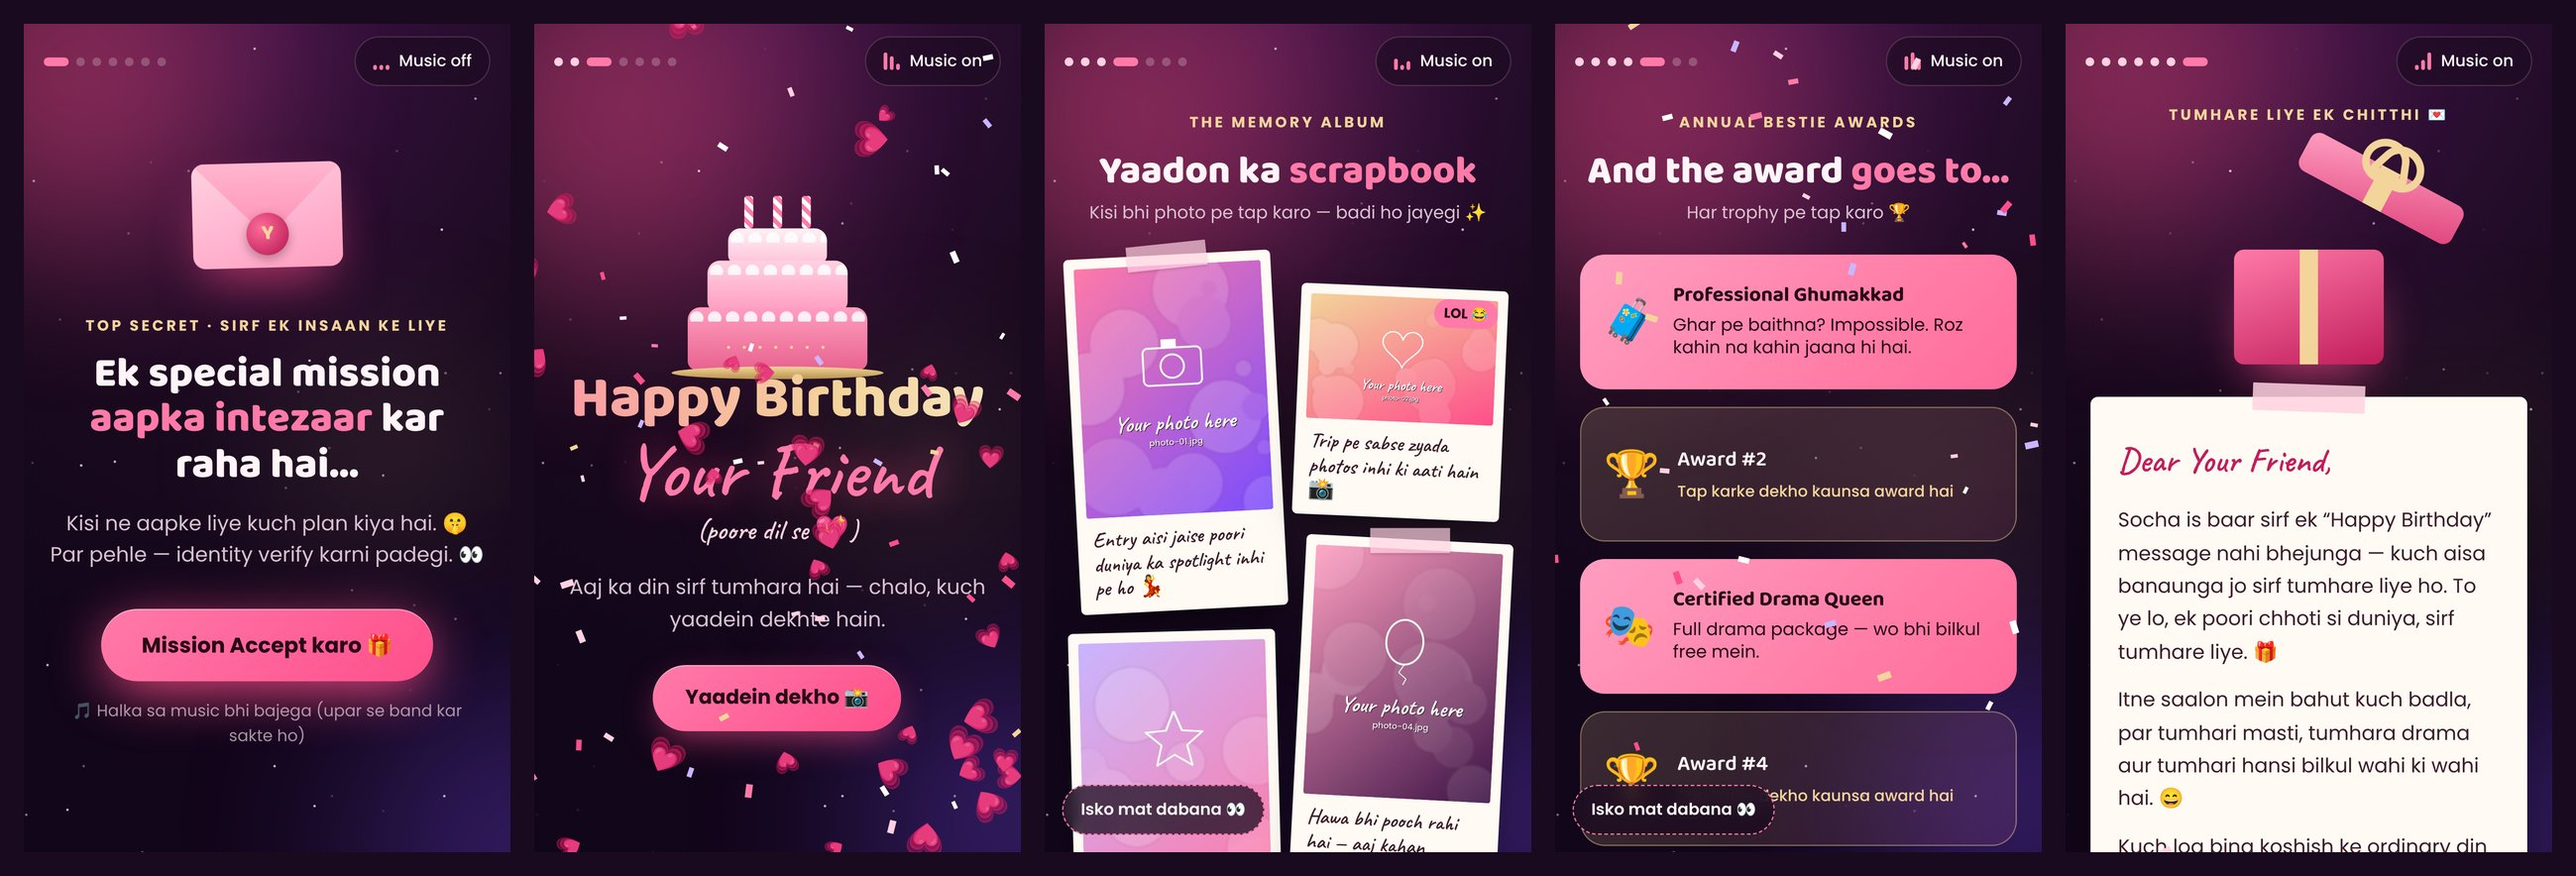
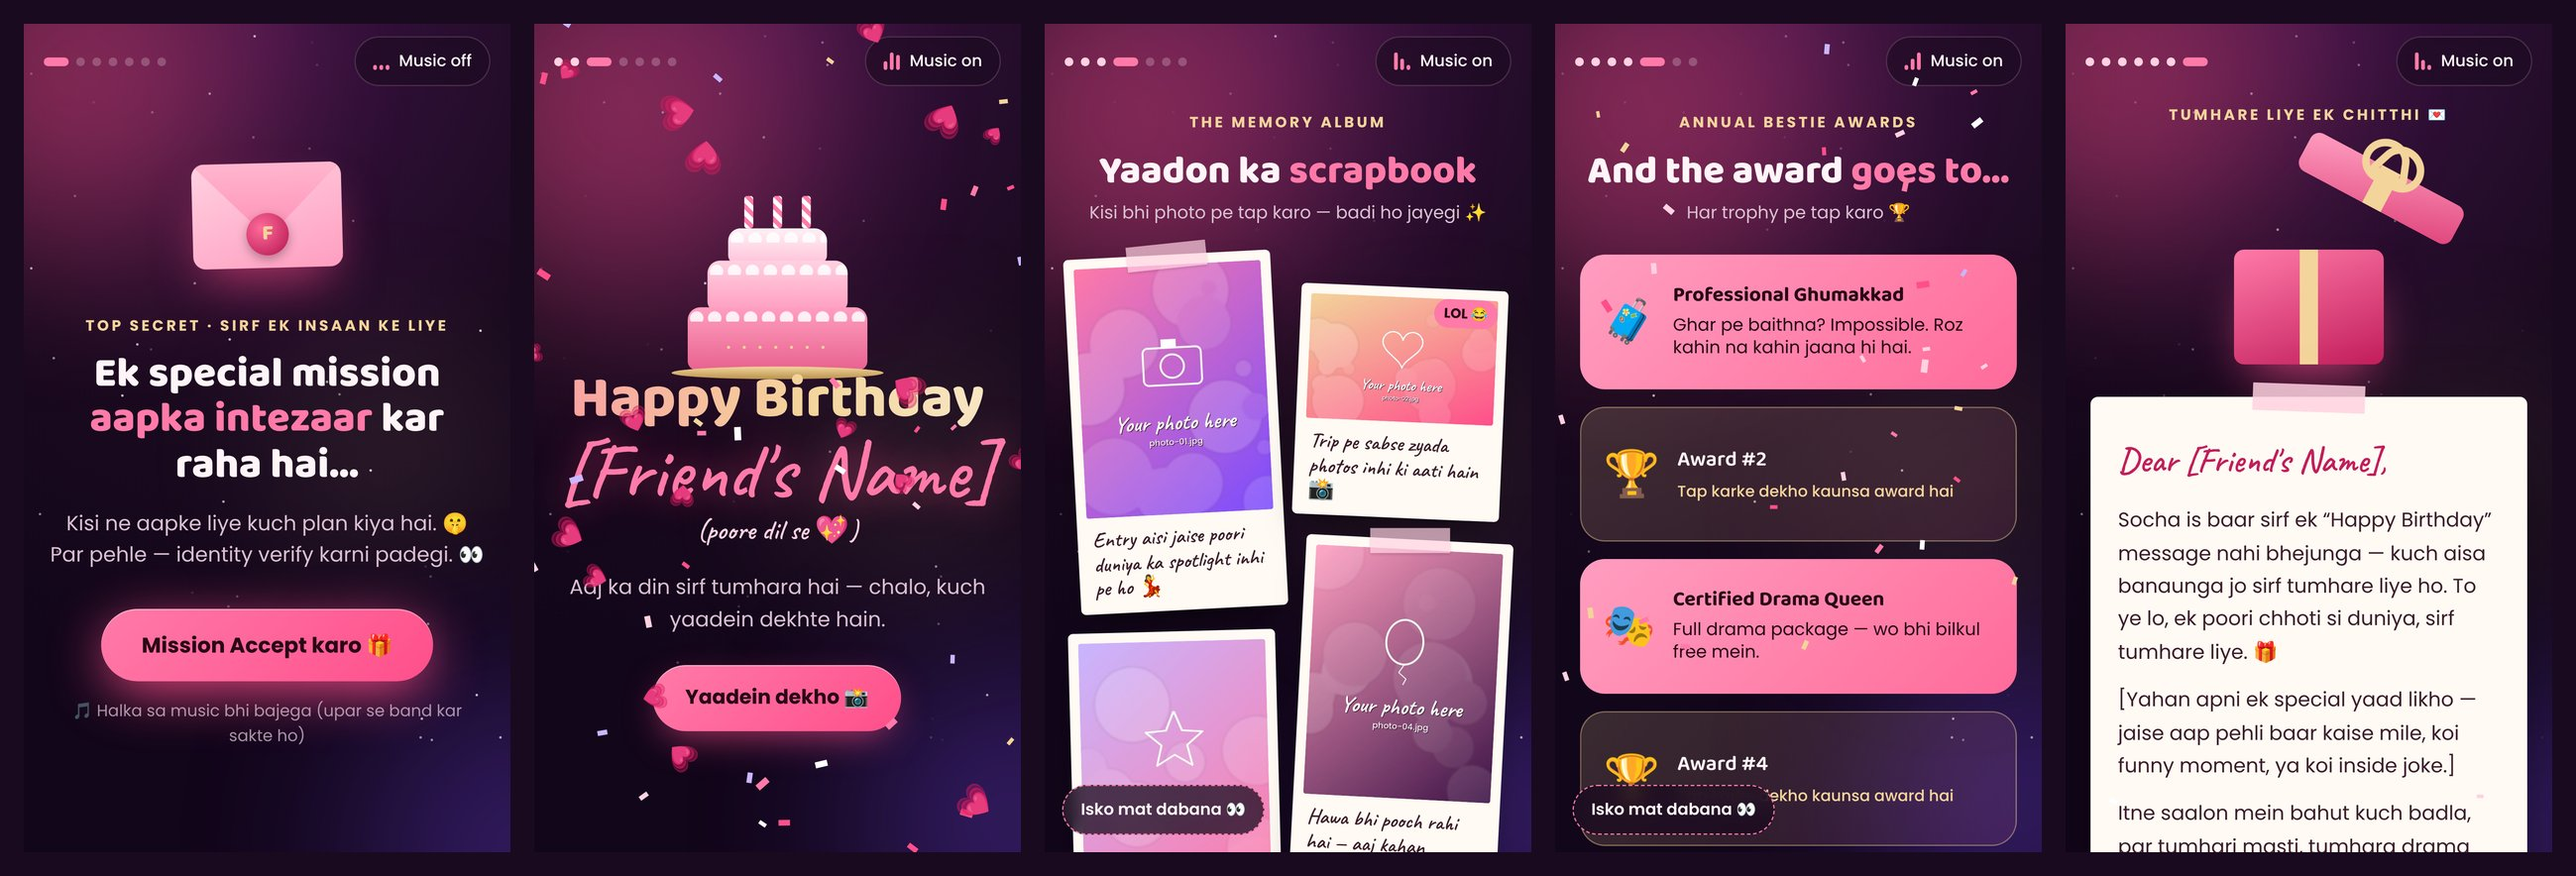
Use [bracket] placeholders for names and memories; add customize checklist to README

diff --git a/js/data.js b/js/data.js
@@ -1,15 +1,20 @@
 // =====================================================================
 //  CUSTOMIZE HERE — saara text aur photos isi file se aate hain.
-//  {name} = birthday wale dost ka naam, {from} = aapka naam.
-//  Ye dono har jagah apne aap replace ho jaate hain.
+//
+//  [Square bracket] wali har cheez apni details se badlo.
+//  Poori list: README.md → "Yahan changes karne hain".
+//
+//  {name} aur {from} ko mat chhedna — ye apne aap neeche wale
+//  name / from se replace ho jaate hain.
 // =====================================================================
 
 window.SITE = {
-  name: "Your Friend",   // 👈 birthday person ka naam
-  from: "Your Name",     // 👈 aapka naam
+  name: "[Friend's Name]",   // 👈 [CHANGE] birthday wale dost ka naam
+  from: "[Your Name]",       // 👈 [CHANGE] aapka naam
 
   revealNote: "(poore dil se 💖)",
 
+  // 👇 [CHANGE] Photos: apni photos daalo aur captions badlo
   // Photos: assets/images/ (full size) + assets/thumbs/ (small, ~640px)
   // w/h = thumb ka size (optional, layout jump se bachata hai)
   photos: [
@@ -25,6 +30,7 @@ window.SITE = {
     { file: "photo-10.jpg", w: 480, h: 640, caption: "Selfie mode: ON · Smile mode: FULL 📸", alt: "Sample photo 10" }
   ],
 
+  // 👇 [OPTIONAL] Awards apne dost ki aadaton ke hisaab se badlo
   awards: [
     { icon: "🧳", title: "Professional Ghumakkad", desc: "Ghar pe baithna? Impossible. Roz kahin na kahin jaana hi hai." },
     { icon: "⚡", title: "Bore Hone ki Speed — World Champion", desc: "5 minute mein bore ho jaana koi inse seekhe." },
@@ -87,11 +93,12 @@ window.SITE = {
     }
   ],
 
-  // Screen 6: Dosti ka test (apne sawaal-jawab yahan daalo)
+  // 👇 [CHANGE] Screen 6: Dosti ka test (apne sawaal-jawab yahan daalo)
   quiz: [
     {
+      // 👇 [CHANGE] apni sahi jagah + 2 galat options likho. answer = sahi option ka number (0 se shuru)
       q: "Hum dono pehli baar kahan mile the? 🤔",
-      options: ["School", "College", "Office", "Yaad nahi 😅"],
+      options: ["[Jahan pehli baar mile — sahi jawab]", "[Galat option 1]", "[Galat option 2]", "Yaad nahi 😅"],
       answer: 0,
       right: "Sahi jawab! Wahan se shuru hui ye kahani 💫",
       wrong: "Galat! Itni jaldi bhool gaye? 😏"
@@ -126,10 +133,11 @@ window.SITE = {
     "…achha theek hai, aakhri: tum bahut special ho. Ab sach mein jao 💖"
   ],
 
-  // Final letter — HTML allowed (<p>, <br>, <strong>, <em>)
+  // 👇 [CHANGE] Final letter — apne shabdon mein likho. HTML allowed (<p>, <br>, <strong>, <em>)
   letter: `
     <p>Dear {name},</p>
     <p>Socha is baar sirf ek “Happy Birthday” message nahi bhejunga — kuch aisa banaunga jo sirf tumhare liye ho. To ye lo, ek poori chhoti si duniya, sirf tumhare liye. 🎁</p>
+    <p>[Yahan apni ek special yaad likho — jaise aap pehli baar kaise mile, koi funny moment, ya koi inside joke.]</p>
     <p>Itne saalon mein bahut kuch badla, par tumhari masti, tumhara drama aur tumhari hansi bilkul wahi ki wahi hai. 😄</p>
     <p>Kuch log bina koshish ke ordinary din ko special bana dete hain — tum unmein se ho. Thank you, hamesha saath rehne ke liye.</p>
     <p>Hamesha aise hi ghoomte raho, hanste raho, aur khush raho. ✨</p>

diff --git a/js/main.js b/js/main.js
@@ -19,7 +19,8 @@
     el.textContent = S.name;
     if (S.name.length > 7) el.classList.add("long"); // lambe naam ke liye chhota font
   });
-  $("#sealInitial").textContent = (S.name.trim()[0] || "♥").toUpperCase();
+  var initial = S.name.match(/[A-Za-z\u0900-\u097F]/); // brackets/emoji skip karke pehla letter
+  $("#sealInitial").textContent = initial ? initial[0].toUpperCase() : "♥";
   $("#revealNote").textContent = S.revealNote || "";
 
   /* ---------------- Stars ---------------- */

diff --git a/README.md b/README.md
@@ -12,7 +12,7 @@ Plain **HTML + CSS + JavaScript**. No framework, no build step, no backend.
 |---|---|
 | 1. Secret Mission | Animated envelope, "Mission Accept karo" button, starts background music |
 | 2. Verification | 3 funny questions. The **"Nahi"** button shows a new message on every tap (23 in total), then disappears 😄 |
-| 3. Cake Reveal | Tap the cake → candles blow out → confetti + "Happy Birthday {name}" |
+| 3. Cake Reveal | Tap the cake → candles blow out → confetti + "Happy Birthday [Friend's Name]" |
 | 4. Scrapbook | Polaroid-style photo gallery with captions, full-screen viewer with swipe |
 | 5. Awards | Flip cards with funny personalised awards |
 | 6. Friendship Quiz | 4 questions with score, right/wrong reactions |
@@ -26,24 +26,33 @@ Also included:
 - Self-hosted fonts (Baloo 2, Poppins, Caveat), so nothing is loaded from third-party servers
 - Tested on a 390 × 844 phone viewport: no horizontal scroll, no console errors
 
-## 🛠 Make it your own (3 steps)
+## 🔧 Yahan changes karne hain (Customize checklist)
 
-**1. Names:** open `js/data.js` and change the first two lines:
-```js
-name: "Your Friend",   // birthday person's name
-from: "Your Name",     // your name
-```
-Every `{name}` and `{from}` in the texts is replaced automatically.
+Is project mein koi real naam ya personal detail nahi hai. Jahan bhi aapko apni details daalni hain, wahan **`[Square bracket]`** wala placeholder hai, aur code mein **`[CHANGE]`** comment laga hai. Lagbhag saara kaam sirf **`js/data.js`** mein hai.
 
-**2. Photos:** put your photos in `assets/images/` (full size) and a smaller copy (~640 px) in `assets/thumbs/` with the **same file name**. Then list them in `photos: [...]` inside `js/data.js`:
-```js
-{ file: "photo-01.jpg", caption: "Your caption 😄", alt: "Short description" },
-```
-Add `funny: true` to show a "LOL 😂" tag. You can use any number of photos.
+| # | Kya badalna hai | File → jagah | Abhi kya likha hai |
+|---|---|---|---|
+| 1 | **Dost ka naam** (website pe har jagah apne aap aa jayega) | `js/data.js` → `name` | `[Friend's Name]` |
+| 2 | **Aapka naam** (letter ke neeche, quiz, messages) | `js/data.js` → `from` | `[Your Name]` |
+| 3 | **Photos** | `assets/images/` + `assets/thumbs/` | 10 placeholder images: "Your photo here" |
+| 4 | **Photo captions** | `js/data.js` → `photos` | Sample funny captions |
+| 5 | **Pehli mulaqat wala quiz sawaal** | `js/data.js` → `quiz` (pehla sawaal) | `[Jahan pehli baar mile — sahi jawab]`, `[Galat option 1]`, `[Galat option 2]` |
+| 6 | **Letter mein aapki special yaad** | `js/data.js` → `letter` | `[Yahan apni ek special yaad likho …]` |
+| 7 | Baaki letter, quiz, awards *(optional)* | `js/data.js` → `letter`, `quiz`, `awards` | Generic sample text |
+| 8 | Background music *(optional)* | `assets/audio/music.mp3` | Original lofi tune; apna gaana isi naam se replace karo |
 
-**3. Text:** edit the awards, quiz questions, letter and secret messages in the same `js/data.js` file.
+**Tip:** `{name}` aur `{from}` ko mat badalna. Ye apne aap #1 aur #2 se replace ho jaate hain.
 
-Optional: replace `assets/audio/music.mp3` with your own song (keep the same file name).
+Badlav ke baad search karke check karo ki koi placeholder bacha to nahi (VS Code: `Ctrl + Shift + F`, search: `[CHANGE]` aur `[`).
+
+### Photos kaise daalein
+1. Apni photos `assets/images/` mein daalo (full size) aur unki chhoti copy (~640 px) `assets/thumbs/` mein, **same file name** ke saath.
+2. `js/data.js` ki `photos` list mein har photo ki ek line rakho:
+   ```js
+   { file: "photo-01.jpg", caption: "Your caption 😄", alt: "Short description" },
+   ```
+   `funny: true` lagane se photo pe "LOL 😂" tag aata hai. Photos ki koi limit nahi hai.
+3. Purani placeholder files (`photo-01.jpg` … `photo-10.jpg`) delete kar do, ya unhi naamon se apni photos rakh do.
 
 ## ▶ Run locally
 
